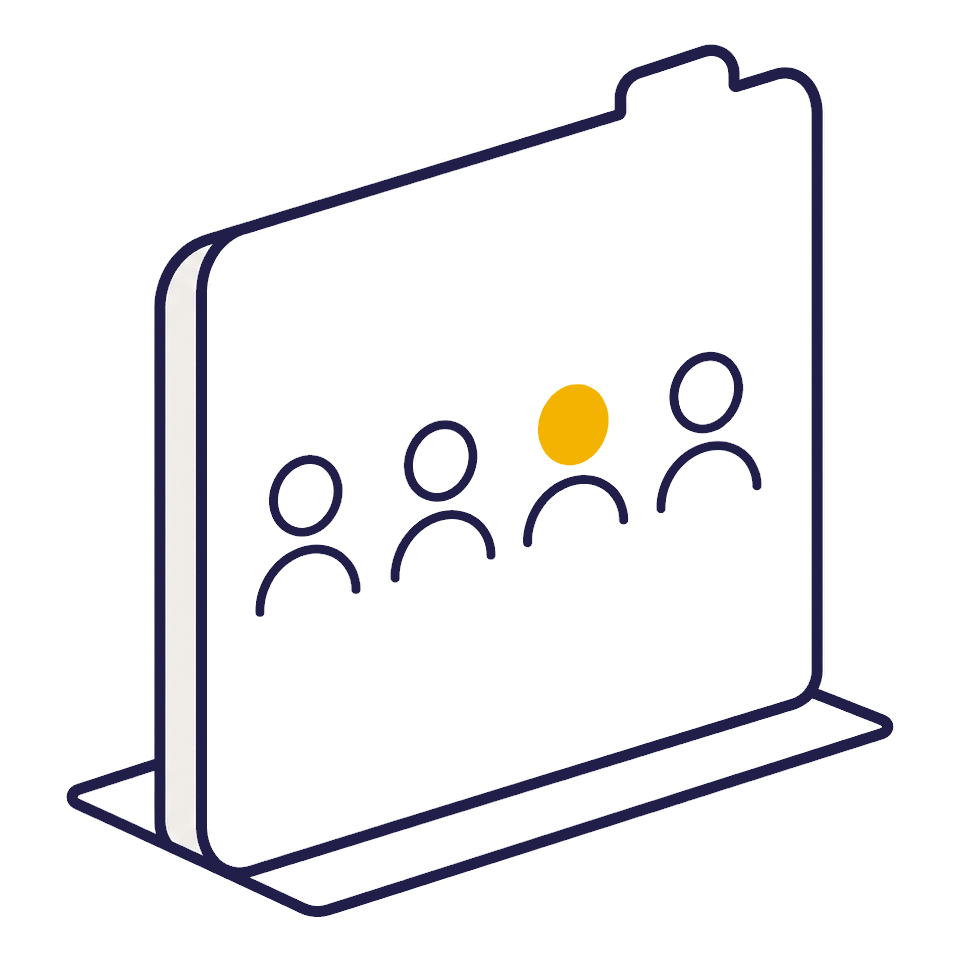
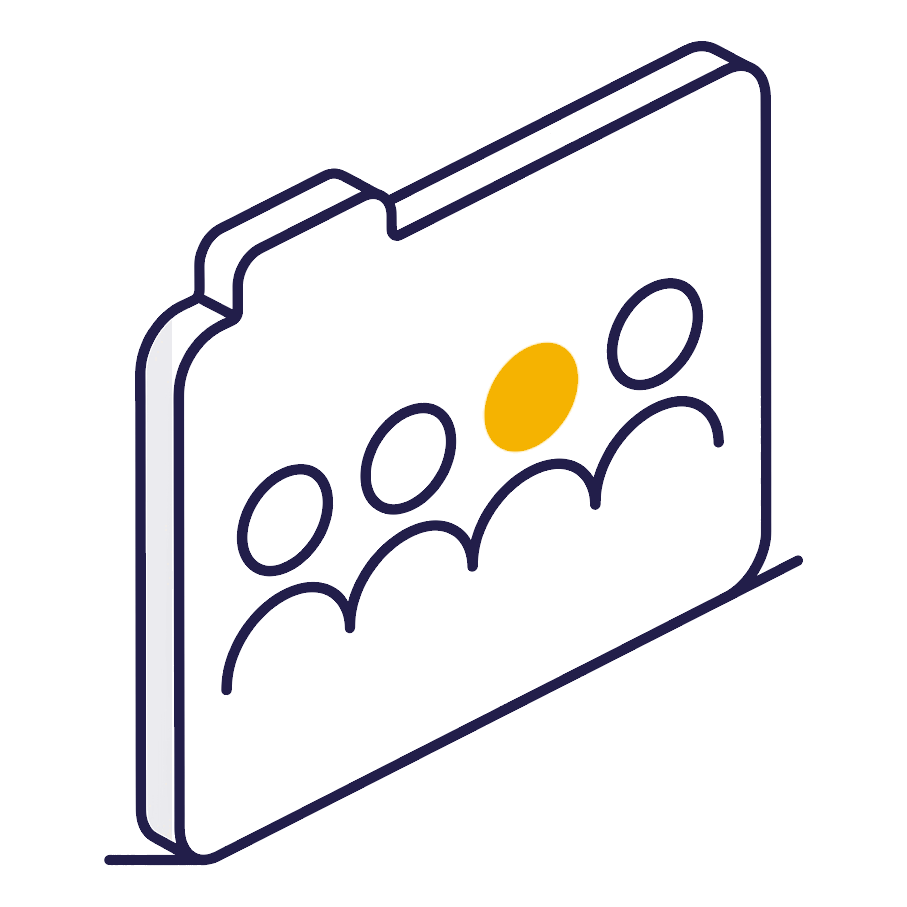
art(ingest): key accepted batch (cuts/absence/seal/hero) + R1/R2 parent regens
- tools/art-gate/ingest.py: coverage-fit keyer (adapted from the delivered
  process.py) for the 14 accepted PNGs; dark = recolor, never regen.
  Parent regens REPLACE 01-students/06-classes; new families live in
  public/empty-art/<family>/{light,dark}/ so the parent gate keeps scope.
- restores the lost stroke normalization (docs §3): STROKE_DELTA EDT
  morphology per asset + σ=0.7 re-fringe — 01-students regen drew +39%
  heavier (17.1e-3); r=2.0 lands it at 12.32, matching the shipped
  original. Parent spread 46% -> 11% PASS.
- measure.py takes an optional dir so each new family gets its own band
  (recorded: cuts 160% FAIL, absence 37% FAIL — stroke deltas next;
  seal/hero single-asset PASS)
- scipy now required by the art pipeline (installed for python 3.14)

Changed region(s): [[0.0617, 0.0309, 0.9261, 0.957], [0.247, 0.3087, 0.8026, 0.7718]]

diff --git a/tools/art-gate/ingest.py b/tools/art-gate/ingest.py
@@ -1,0 +1,163 @@
+#!/usr/bin/env python3
+"""Ingest the accepted generation batch (2026-10-07) into theme-ready pairs.
+
+Coverage-fit keying adapted from the delivered process.py: every pixel is
+modelled as C = a·S + (1−a)·bg with S one of three brand inks (plum stroke /
+gold fill / pale wash); coverage a becomes alpha so AA fringes stay soft.
+Dark output is a recolor of the same matte, never a re-generation.
+
+Layout: parent regens (01/06) REPLACE public/empty-art/{light,dark}/*.png —
+measure.py globs that dir and owns the parents' ≤15% spread band. New
+families go to public/empty-art/<family>/{light,dark}/ subdirs so the
+parent gate keeps its scope; each family is measured on its own.
+
+Sources are the delivered batch folder — re-point JOBS after any regen.
+Usage:  python tools/art-gate/ingest.py [parent|cuts|absence|seal|hero|all]
+"""
+import os
+import sys
+
+import numpy as np
+from PIL import Image
+from scipy.ndimage import distance_transform_edt, gaussian_filter
+
+HERE = os.path.dirname(os.path.abspath(__file__))
+ROOT = os.path.normpath(os.path.join(HERE, "..", ".."))
+OUT = os.path.join(ROOT, "public", "empty-art")
+
+BATCH = "C:/Users/Moslem/Desktop/picsnew"
+JOBS = [
+    # family,  source,                                          stem
+    ("parent", f"{BATCH}/newer/finals/01-students-r2.png",      "01-students"),
+    ("parent", f"{BATCH}/hopefully last latest/finals/06-classes-r1-fixed.png", "06-classes"),
+    ("cuts",   f"{BATCH}/cut-1.png", "cut-1"),
+    ("cuts",   f"{BATCH}/cut-2.png", "cut-2"),
+    ("cuts",   f"{BATCH}/cut-3.png", "cut-3"),
+    ("cuts",   f"{BATCH}/cut-4.png", "cut-4"),
+    ("cuts",   f"{BATCH}/cut-5.png", "cut-5"),
+    ("cuts",   f"{BATCH}/cut-6.png", "cut-6"),
+    ("absence", f"{BATCH}/absence/abs-1-404.png",             "abs-1-404"),
+    ("absence", f"{BATCH}/absence/abs-2-session-expired.png",  "abs-2-session-expired"),
+    ("absence", f"{BATCH}/newer/finals/abs-3-import-failed.png", "abs-3-import-failed"),
+    ("absence", f"{BATCH}/newer/finals/abs-4-no-results.png",   "abs-4-no-results"),
+    ("seal",   f"{BATCH}/seal.png", "seal"),
+    ("hero",   f"{BATCH}/hero.png", "hero"),
+]
+
+INK_L = np.array([34, 30, 74], dtype=np.float64)     # #221E4A plum stroke
+GOLD_L = np.array([245, 179, 1], dtype=np.float64)   # #F5B301 gold fill
+WASH_L = np.array([239, 235, 231], dtype=np.float64) # #EFEFEB wash plane
+INK_D = np.array([247, 241, 228], dtype=np.float64)  # #F7F1E4 cream stroke
+GOLD_D = np.array([248, 197, 66], dtype=np.float64)  # #F8C542 gold
+WASH_D = np.array([50, 47, 71], dtype=np.float64)    # #322F47 plum wash
+
+BG_KEY_DIST = 10.0
+MIN_ALPHA = 0.05
+
+# Stroke-weight normalization (docs/art/Azmoonsaz-ART-MASTERPLAN.md §3):
+# exact Euclidean morphology on the keyed alpha mask with a per-asset float
+# radius, then σ=0.7 re-fringe. EDT distances come in float rings — tune the
+# radius in 0.2 steps against tools/art-gate/measure.py, never by eye.
+# 01-students regen drew +39% heavier than its siblings (ratio 17.1e-3 vs
+# ~12.5 band) — thin it back into the ≤15% spread gate.
+STROKE_DELTA = {
+    "01-students": 2.0,
+}
+
+
+def normalize_strokes(alpha, best_idx, r):
+    """Thin ink strokes by r px of exact-Euclidean ring distance.
+
+    Only the ink class (idx 0) is touched — gold fills and the wash plane
+    keep their coverage; the σ=0.7 gaussian restores the anti-alias fringe
+    the binary erosion cut off.
+    """
+    if r <= 0:
+        return alpha
+    core = (best_idx == 0) & (alpha > 0.5)
+    if not core.any():
+        return alpha
+    edt = distance_transform_edt(core)
+    keep = core & (edt > r)
+    out = np.where(best_idx == 0, 0.0, alpha)  # drop old ink core + fringe
+    out = np.where(keep, alpha, out)           # restore surviving core
+    return gaussian_filter(out, 0.7)
+
+
+def process(src_path, stem, light_dir, dark_dir):
+    im = Image.open(src_path).convert("RGB")
+    c = np.asarray(im, dtype=np.float64)
+    h, w, _ = c.shape
+
+    corners = np.concatenate([
+        c[:8, :8].reshape(-1, 3), c[:8, -8:].reshape(-1, 3),
+        c[-8:, :8].reshape(-1, 3), c[-8:, -8:].reshape(-1, 3)])
+    bg = np.median(corners, axis=0)
+
+    dist_bg = np.sqrt(((c - bg) ** 2).sum(axis=2))
+    is_bg = dist_bg < BG_KEY_DIST
+
+    best_res = np.full((h, w), np.inf)
+    best_a = np.zeros((h, w))
+    best_idx = np.zeros((h, w), dtype=np.int8)
+    for idx, s in enumerate((INK_L, GOLD_L, WASH_L)):
+        d = bg - s
+        denom = float(d @ d)
+        a = np.clip(((bg - c) @ d) / denom, 0.0, 1.0)
+        pred = bg - a[..., None] * d
+        res = np.sqrt(((c - pred) ** 2).sum(axis=2))
+        upd = res < best_res
+        best_res = np.where(upd, res, best_res)
+        best_a = np.where(upd, a, best_a)
+        best_idx = np.where(upd, idx, best_idx)
+
+    alpha = np.where(is_bg | (best_a < MIN_ALPHA), 0.0, best_a)
+    # snap solid ink/gold cores, keep AA fringe and the wash's soft ramp
+    alpha = np.where((best_idx != 2) & (alpha > 0.7), 1.0, alpha)
+    alpha = normalize_strokes(alpha, best_idx, STROKE_DELTA.get(stem, 0.0))
+
+    light_rgb = np.stack([INK_L, GOLD_L, WASH_L])[best_idx].astype(np.uint8)
+    dark_rgb = np.stack([INK_D, GOLD_D, WASH_D])[best_idx].astype(np.uint8)
+    a_u8 = np.round(alpha * 255).astype(np.uint8)
+
+    ys, xs = np.where(alpha > 0.03)
+    y0, y1, x0, x1 = ys.min(), ys.max() + 1, xs.min(), xs.max() + 1
+    side = int(max(y1 - y0, x1 - x0) * 1.10)
+    cy, cx = (y0 + y1) // 2, (x0 + x1) // 2
+    ty0, tx0 = cy - side // 2, cx - side // 2
+
+    def square(arr):
+        if arr.ndim == 2:
+            out = np.zeros((side, side), dtype=arr.dtype)
+        else:
+            out = np.zeros((side, side, arr.shape[2]), dtype=arr.dtype)
+        sy0, sx0 = max(0, ty0), max(0, tx0)
+        dy0, dx0 = max(0, -ty0), max(0, -tx0)
+        n = min(side - dy0, arr.shape[0] - sy0), min(side - dx0, arr.shape[1] - sx0)
+        out[dy0:dy0 + n[0], dx0:dx0 + n[1]] = arr[sy0:sy0 + n[0], sx0:sx0 + n[1]]
+        return out
+
+    for rgb, outdir in ((light_rgb, light_dir), (dark_rgb, dark_dir)):
+        os.makedirs(outdir, exist_ok=True)
+        rgba = np.dstack([square(rgb), square(a_u8)])
+        Image.fromarray(rgba, "RGBA").save(os.path.join(outdir, stem + ".png"))
+
+    cov = 100.0 * (alpha > 0).sum() / (h * w)
+    print(f"{stem:24s} bg={bg.astype(int)} side={side} coverage={cov:.1f}%")
+
+
+def main():
+    want = sys.argv[1] if len(sys.argv) > 1 else "all"
+    for family, src, stem in JOBS:
+        if want not in ("all", family):
+            continue
+        if family == "parent":
+            light, dark = os.path.join(OUT, "light"), os.path.join(OUT, "dark")
+        else:
+            light = os.path.join(OUT, family, "light")
+            dark = os.path.join(OUT, family, "dark")
+        process(src, stem, light, dark)
+
+
+if __name__ == "__main__":
+    main()

diff --git a/tools/art-gate/measure.py b/tools/art-gate/measure.py
@@ -2,12 +2,14 @@
 """Art gate: measure optical stroke weight + fill of every shipped motif.
 The six (and any future motif) must stay within a +/-15% stroke/canvas
 band or they do not read as one system at slot size. Run after any regen:
-    python tools/art-gate/measure.py
+    python tools/art-gate/measure.py              # parents (default gate)
+    python tools/art-gate/measure.py <light-dir>  # one family, own band
+    e.g. public/empty-art/cuts/light
 Exit 0 = PASS (spread <= 15%), 1 = FAIL.
 
 PALETTE NOTE: the ink mask keys on #221E4A, the legacy plum the shipped
 set was keyed with. Live `--color-ink` is #1a1a2e — retarget INK here
-(and in process.py's recolor) before any future regeneration round.
+(and in ingest.py's recolor) before any future regeneration round.
 """
 import numpy as np
 from PIL import Image
@@ -15,7 +17,8 @@ import os, glob, sys
 
 HERE = os.path.dirname(os.path.abspath(__file__))
 # repo layout: tools/art-gate/measure.py -> public/empty-art/light/*.png
-LIGHT = os.path.normpath(os.path.join(HERE, "..", "..", "public", "empty-art", "light"))
+ROOT = os.path.normpath(os.path.join(HERE, "..", "..", "public", "empty-art"))
+LIGHT = os.path.join(ROOT, "light")
 
 
 def run_lengths(mask):
@@ -31,8 +34,11 @@ def run_lengths(mask):
 
 
 def main():
+    target = LIGHT
+    if len(sys.argv) > 1:
+        target = sys.argv[1] if os.path.isabs(sys.argv[1]) else os.path.normpath(sys.argv[1])
     rows = []
-    for p in sorted(glob.glob(os.path.join(LIGHT, "*.png"))):
+    for p in sorted(glob.glob(os.path.join(target, "*.png"))):
         im = np.asarray(Image.open(p).convert("RGBA"))
         a = im[..., 3] > 128
         ink = a & (np.abs(im[..., :3].astype(int) - np.array([34, 30, 74])).sum(axis=2) < 30)
@@ -46,7 +52,7 @@ def main():
         fill = 100 * (xs.max() - xs.min() + 1) / side
         rows.append((os.path.basename(p), stroke, ratio, fill))
     if not rows:
-        print(f"art gate: no PNGs found in {LIGHT}")
+        print(f"art gate: no PNGs found in {target}")
         return 1
     print(f"{'asset':20s} {'stroke':>6s} {'ratio e-3':>9s} {'fill%':>6s}")
     for name, stroke, ratio, fill in rows:
